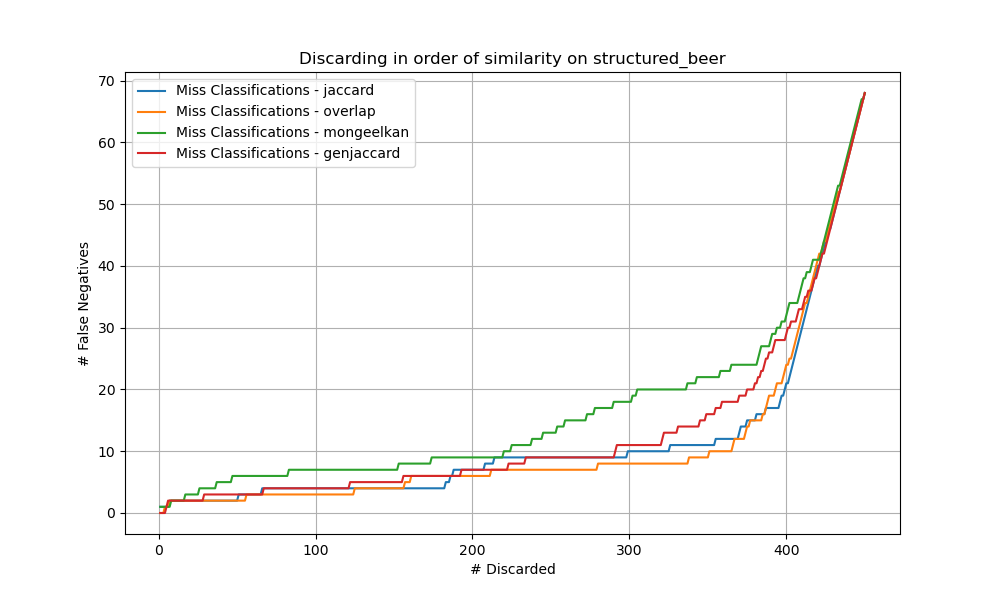
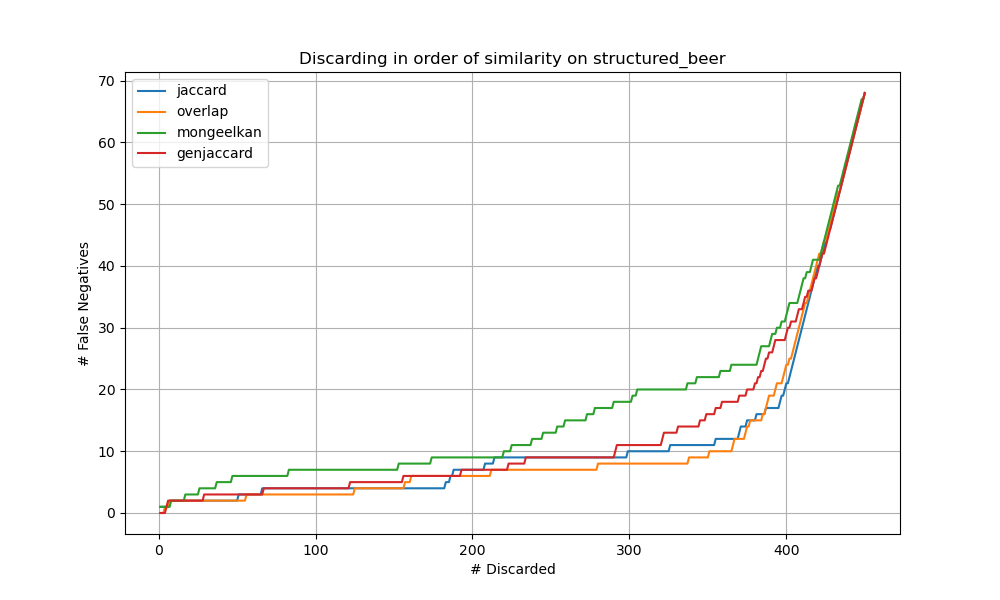
Update legend

Changed region(s): [[0.155, 0.12, 0.403, 0.27]]

diff --git a/preclassify_eval.py b/preclassify_eval.py
@@ -35,7 +35,7 @@ if __name__ == "__main__":
         plt.figure(figsize=(10, 6))
         for name, data in data_dict.items():
             x_values, y_values = zip(*data)
-            plt.plot(x_values, y_values, label=f"Miss Classifications - {name}")
+            plt.plot(x_values, y_values, label=f"{name}")
         plt.xlabel("# Discarded")
         plt.ylabel("# False Negatives")
         plt.title(f"Discarding in order of similarity on {ds}")
